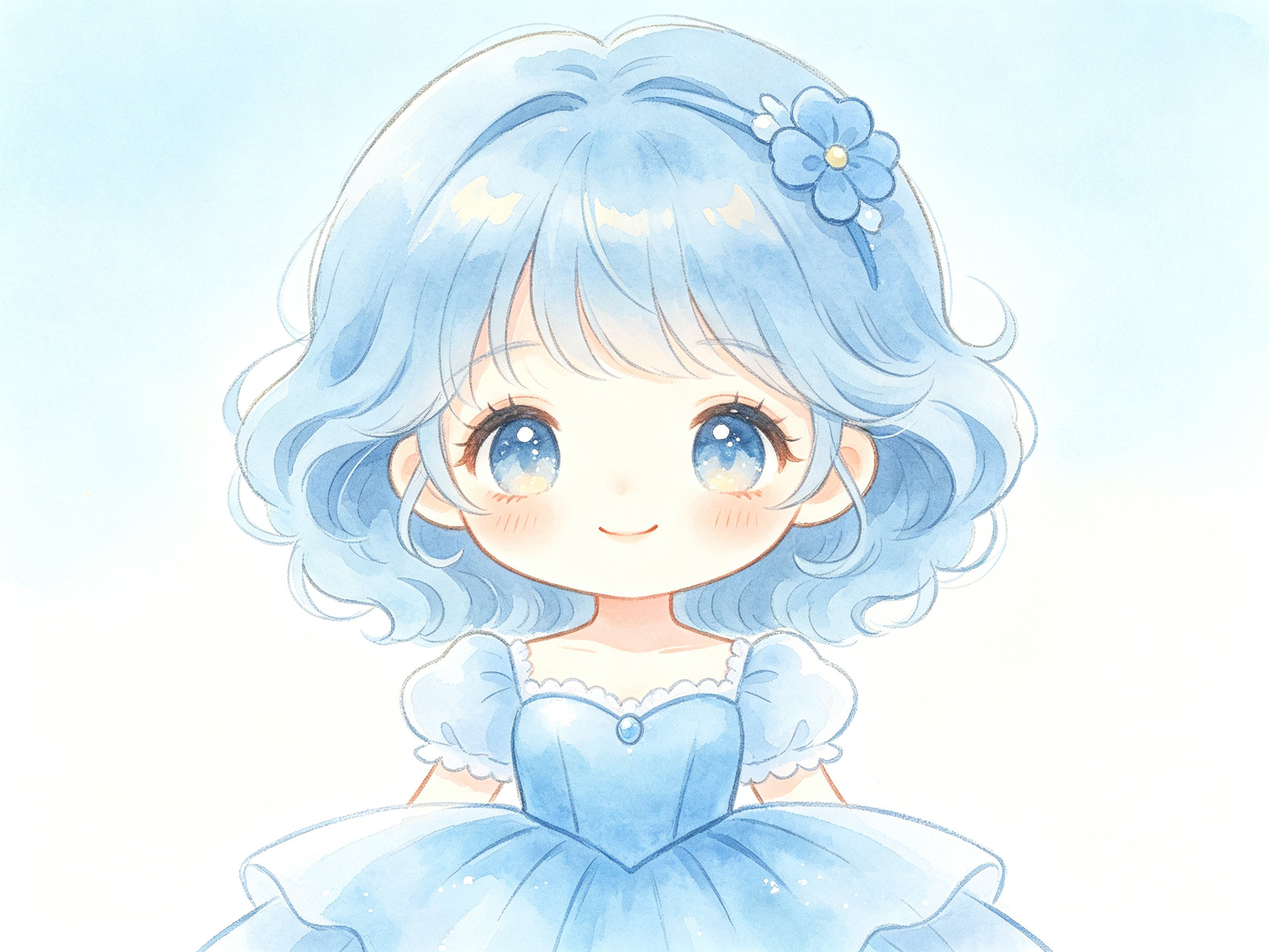
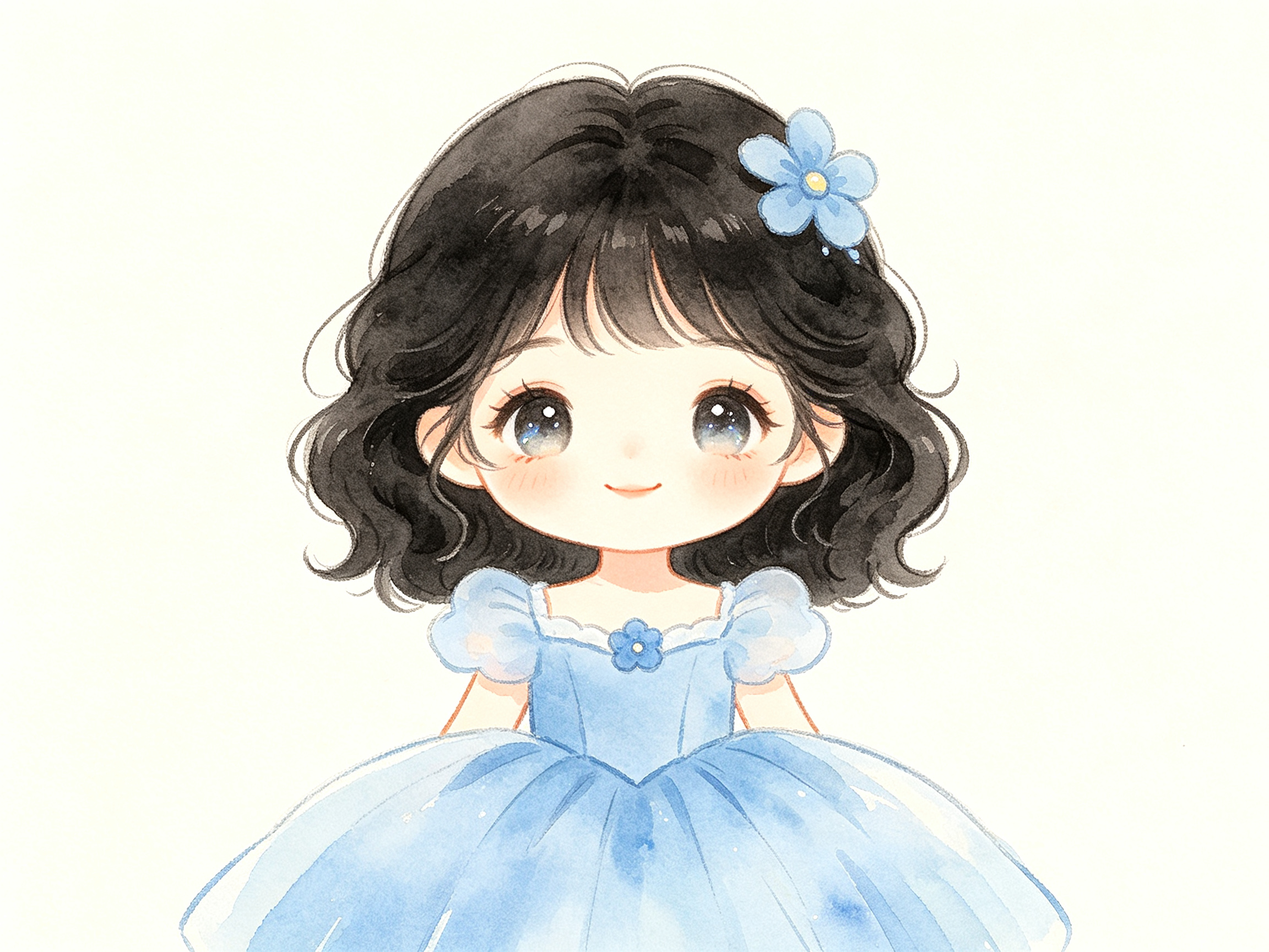
补充人物角色的多角度的图片

diff --git a/series/rose-princess/ep03-haircut/index.html b/series/rose-princess/ep03-haircut/index.html
@@ -332,7 +332,7 @@
       <div class="char-card c2">
         <span class="badge">妹妹 · 主角</span>
         <h3>玫瑰公主</h3>
-        <p>穿着蓝色蓬蓬裙，蓝色软卷发，眼睛亮晶晶。她是蔷薇公主亲手种出来的宝贝公主，头发也长得不得了，软萌又勇敢。</p>
+        <p>穿着蓝色蓬蓬裙，浅黑色软卷发，眼睛亮晶晶。她是蔷薇公主亲手种出来的宝贝公主，头发也长得不得了，软萌又勇敢。</p>
       </div>
       <div class="char-card c3">
         <span class="badge">爸爸妈妈</span>

diff --git a/series/rose-princess/ep02-sisters/index.html b/series/rose-princess/ep02-sisters/index.html
@@ -332,7 +332,7 @@
       <div class="char-card c2">
         <span class="badge">妹妹 · 主角</span>
         <h3>玫瑰公主</h3>
-        <p>穿着蓝色蓬蓬裙，蓝色软卷发，眼睛亮晶晶。她是蔷薇公主亲手种出来的宝贝公主，软萌又勇敢。</p>
+        <p>穿着蓝色蓬蓬裙，浅黑色软卷发，眼睛亮晶晶。她是蔷薇公主亲手种出来的宝贝公主，软萌又勇敢。</p>
       </div>
       <div class="char-card c3">
         <span class="badge">爸爸妈妈</span>

diff --git a/series/rose-princess/ep01-seed-flower/index.html b/series/rose-princess/ep01-seed-flower/index.html
@@ -325,7 +325,7 @@
       <div class="char-card c2">
         <span class="badge">花中惊喜</span>
         <h3>玫瑰小公主</h3>
-        <p>从巨大的花苞里「嘭」地出生，穿着蓝色蓬蓬裙、蓝色软卷发，眼睛像亮晶晶的小星辰，软糯可爱。</p>
+        <p>从巨大的花苞里「嘭」地出生，穿着蓝色蓬蓬裙、浅黑色软卷发，眼睛像亮晶晶的小星辰，软糯可爱。</p>
       </div>
     </div>
   </div>

diff --git a/series/rose-princess/character-bible.md b/series/rose-princess/character-bible.md
@@ -3,7 +3,7 @@
 > **唯一真相来源。** 各册 `prompts.md` 禁止另写冲突的外形 / 性格描述。  
 > 改外形时：先改本文 + 更新 `refs/` 标准照，再决定是否重渲旧书。  
 > 改性格时：先改本文「性格设定」，再写新故事；旧册文字可按需同步。  
-> 最后更新：2026-09-13（已补两位公主性格初稿，可再调）
+> 最后更新：2026-09-13（玫瑰公主发色调整为浅黑色软卷发；补充全角色多角度参考图）
 
 ---
 
@@ -53,7 +53,7 @@
 
 **禁止项：** 金发 / 金冠卷发、换裙色、成人比例、写实脸、无发饰。
 
-**标准参考图：** `refs/rose-princess-front.jpg`、`refs/rose-princess-bust.jpg`
+**标准参考图：** `refs/rose-princess-front.jpg`、`refs/rose-princess-bust.jpg`、`refs/rose-princess-side.jpg`、`refs/rose-princess-back.jpg`
 
 ---
 
@@ -63,7 +63,7 @@
 |---|---|
 | 身份 | 蔷薇公主亲手种出的宝贝公主、妹妹 |
 | 年龄感 | Q 版幼儿公主，可比姐姐略小一点 |
-| 发型发色 | **蓝色软卷发** |
+| 发型发色 | **浅黑色软卷发** |
 | 发饰 | 蓝色小花发饰 |
 | 服装 | 蓝色蓬蓬公主裙（可带少量蕾丝细节，主色必须是蓝） |
 | 眼睛 | 亮晶晶，像小星辰 |
@@ -85,12 +85,12 @@
 
 **Prompt 固定段（复制用）：**
 ```
-蓝色软卷发、头戴蓝色小花发饰、穿蓝色蓬蓬公主裙、眼睛亮晶晶的玫瑰公主（Q版软萌小公主）
+浅黑色软卷发、头戴蓝色小花发饰、穿蓝色蓬蓬公主裙、眼睛亮晶晶的玫瑰公主（Q版软萌小公主）
 ```
 
-**禁止项：** 粉裙、棕发/金发、成人比例、写实脸、无发饰。
+**禁止项：** 粉裙、蓝发/棕发/金发、成人比例、写实脸、无发饰。
 
-**标准参考图：** `refs/blue-rose-princess-front.jpg`、`refs/blue-rose-princess-bust.jpg`
+**标准参考图：** `refs/blue-rose-princess-front.jpg`、`refs/blue-rose-princess-bust.jpg`、`refs/blue-rose-princess-side.jpg`、`refs/blue-rose-princess-back.jpg`
 
 ---
 
@@ -121,7 +121,7 @@
 正常华丽人形形象的国王（深红色镶金王袍、金色王冠、慈祥面容）
 ```
 
-**标准参考图：** `refs/king-front.jpg`
+**标准参考图：** `refs/king-front.jpg`、`refs/king-side.jpg`、`refs/king-back.jpg`
 
 ---
 
@@ -139,7 +139,7 @@
 正常华丽人形形象的王后（淡紫色优雅长裙礼服、金色小皇冠、温柔面容）
 ```
 
-**标准参考图：** `refs/queen-front.jpg`
+**标准参考图：** `refs/queen-front.jpg`、`refs/queen-side.jpg`、`refs/queen-back.jpg`
 
 ---
 
@@ -178,7 +178,7 @@
 软萌可爱的云朵状小妖怪（白色毛茸茸云朵身体、圆圆大眼睛、蓝色小脸、带小翅膀，笑容顽皮，不恐怖）
 ```
 
-**标准参考图：** `refs/wind-sprite-front.jpg`
+**标准参考图：** `refs/wind-sprite-front.jpg`、`refs/wind-sprite-side.jpg`、`refs/wind-sprite-back.jpg`
 
 ---
 
@@ -199,5 +199,5 @@
 两人都出场时，可直接粘贴：
 
 ```
-两位Q版小公主：浅棕色微卷长发、头戴粉色小花发饰、穿粉红色蓬蓬公主裙的蔷薇公主（姐姐）；蓝色软卷发、头戴蓝色小花发饰、穿蓝色蓬蓬公主裙的玫瑰公主（妹妹）
+两位Q版小公主：浅棕色微卷长发、头戴粉色小花发饰、穿粉红色蓬蓬公主裙的蔷薇公主（姐姐）；浅黑色软卷发、头戴蓝色小花发饰、穿蓝色蓬蓬公主裙的玫瑰公主（妹妹）
 ```

diff --git a/series/rose-princess/refs/README.md b/series/rose-princess/refs/README.md
@@ -8,11 +8,24 @@
 |--------|------|------|
 | `rose-princess-front.jpg` | 蔷薇公主 · 正面全身 | 已生成 |
 | `rose-princess-bust.jpg` | 蔷薇公主 · 半身特写 | 已生成 |
-| `blue-rose-princess-front.jpg` | 玫瑰公主 · 正面全身 | 已生成 |
-| `blue-rose-princess-bust.jpg` | 玫瑰公主 · 半身特写 | 已生成 |
+| `rose-princess-side.jpg` | 蔷薇公主 · 侧面全身 | 已生成 |
+| `rose-princess-back.jpg` | 蔷薇公主 · 背面全身 | 已生成 |
+| `blue-rose-princess-front.jpg` | 玫瑰公主 · 正面全身（浅黑色软卷发） | 已生成 |
+| `blue-rose-princess-bust.jpg` | 玫瑰公主 · 半身特写（浅黑色软卷发） | 已生成 |
+| `blue-rose-princess-side.jpg` | 玫瑰公主 · 侧面全身（浅黑色软卷发） | 已生成 |
+| `blue-rose-princess-back.jpg` | 玫瑰公主 · 背面全身（浅黑色软卷发） | 已生成 |
 | `king-front.jpg` | 国王 · 正面全身 | 已生成 |
+| `king-side.jpg` | 国王 · 侧面全身 | 已生成 |
+| `king-back.jpg` | 国王 · 背面全身 | 已生成 |
 | `queen-front.jpg` | 王后 · 正面全身 | 已生成 |
+| `queen-side.jpg` | 王后 · 侧面全身 | 已生成 |
+| `queen-back.jpg` | 王后 · 背面全身 | 已生成 |
 | `wind-sprite-front.jpg` | 小风妖怪 · 正面 | 已生成 |
+| `wind-sprite-side.jpg` | 小风妖怪 · 侧面 | 已生成 |
+| `wind-sprite-back.jpg` | 小风妖怪 · 背面 | 已生成 |
+
+> 2026-09-13 更新：玫瑰公主发色调整为**浅黑色软卷发**（原蓝色软卷发），
+> `front` / `bust` 已按新形象重新生成；全角色补齐侧面、背面多角度标准照。
 
 ## 标准照怎么生成
 

diff --git a/series/rose-princess/ep03-haircut/prompts.md b/series/rose-princess/ep03-haircut/prompts.md
@@ -31,9 +31,12 @@
 从系列圣经取固定段：蔷薇公主、玫瑰公主、国王、王后、小风妖怪。
 （兔子理发师为本册一次性路人，未入圣经。）
 
-> 设定对齐说明：蔷薇公主 / 玫瑰公主的发型沿用圣经的「浅棕色微卷长发」「蓝色软卷发」，
+> 设定对齐说明：蔷薇公主 / 玫瑰公主的发型沿用圣经的「浅棕色微卷长发」「浅黑色软卷发」，
 > 本册只做「超长拖地」的夸张处理；结局剪成「及肩长发」（仍在长发范畴），
 > 不违反圣经「禁止短发」的角色锁定。
+>
+> **2026-09-13 形象调整：** 玫瑰公主发色已改为**浅黑色软卷发**（原蓝色软卷发）。
+> 本册配图生成时仍为旧蓝发形象；若重渲，角色固定段请用圣经最新版，勿沿用下文旧 Prompt 中的「蓝色软卷发」。
 
 ## 三、逐页内容与配图 Prompt（最终版）
 

diff --git a/series/rose-princess/prompt-template.md b/series/rose-princess/prompt-template.md
@@ -11,7 +11,7 @@
 儿童绘本插画，马卡龙柔和色系，水彩晕染画风，Q版软萌人物，线条圆润无棱角，光影温柔，画面干净简洁，高清适合打印。
 
 【② 角色固定段 —— 从 character-bible.md 原样粘贴本页出场角色】
-（示例）两位Q版小公主：浅棕色微卷长发、头戴粉色小花发饰、穿粉红色蓬蓬公主裙的蔷薇公主（姐姐）；蓝色软卷发、头戴蓝色小花发饰、穿蓝色蓬蓬公主裙的玫瑰公主（妹妹）。
+（示例）两位Q版小公主：浅棕色微卷长发、头戴粉色小花发饰、穿粉红色蓬蓬公主裙的蔷薇公主（姐姐）；浅黑色软卷发、头戴蓝色小花发饰、穿蓝色蓬蓬公主裙的玫瑰公主（妹妹）。
 
 【③ 本页可变段 —— 只写场景 / 动作 / 表情 / 构图】
 场景：……

diff --git a/series/rose-princess/ep01-seed-flower/prompts.md b/series/rose-princess/ep01-seed-flower/prompts.md
@@ -13,6 +13,7 @@
 >
 > 本文件只归档**本册**剧情与逐页说明；角色外形以系列角色圣经为准。  
 > 说明：本册早期配图 Prompt 未完整归档；若重渲某页，请用系列模板重新拼装，勿沿用「金冠卷发」等旧表述。
+> **2026-09-13 形象调整：** 玫瑰公主发色已改为**浅黑色软卷发**（原蓝色软卷发）。本册配图仍为旧形象；若重渲，角色固定段请用圣经最新版，勿沿用「蓝色软卷发」。
 
 ---
 

diff --git a/series/rose-princess/ep02-sisters/prompts.md b/series/rose-princess/ep02-sisters/prompts.md
@@ -12,6 +12,8 @@
 > - 操作流程 → [`../workflow.md`](../workflow.md)
 >
 > 本文件只归档**本册**剧情与逐页 Prompt；角色外形以系列角色圣经为准，勿在此另写冲突描述。
+>
+> **2026-09-13 形象调整：** 玫瑰公主发色已改为**浅黑色软卷发**（原蓝色软卷发）。本册配图仍为旧形象；若重渲某页，角色固定段请用圣经最新版，勿沿用下文旧 Prompt 中的「蓝色软卷发」。
 
 ---
 
